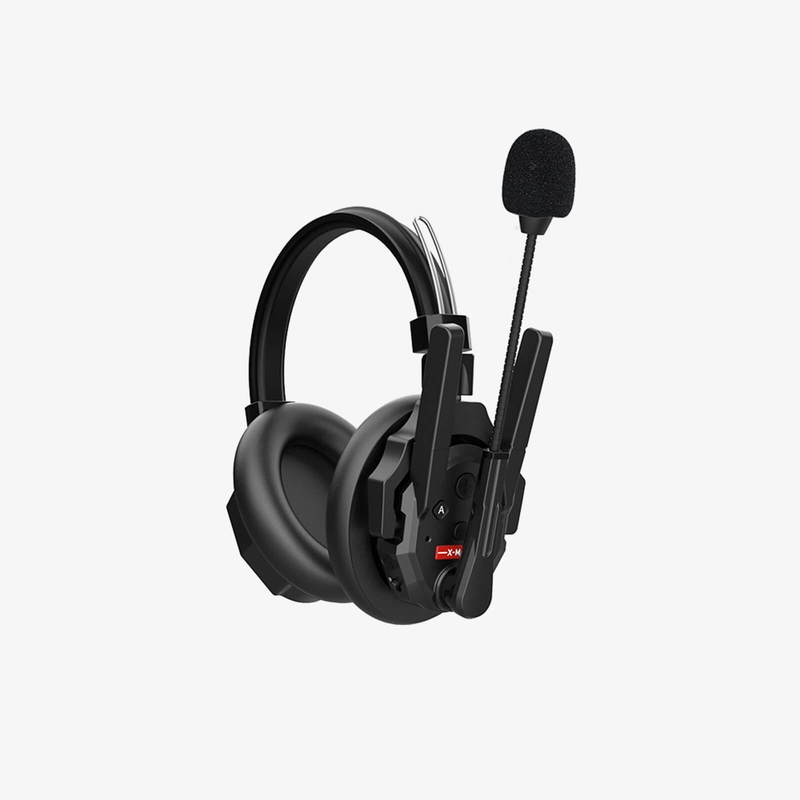
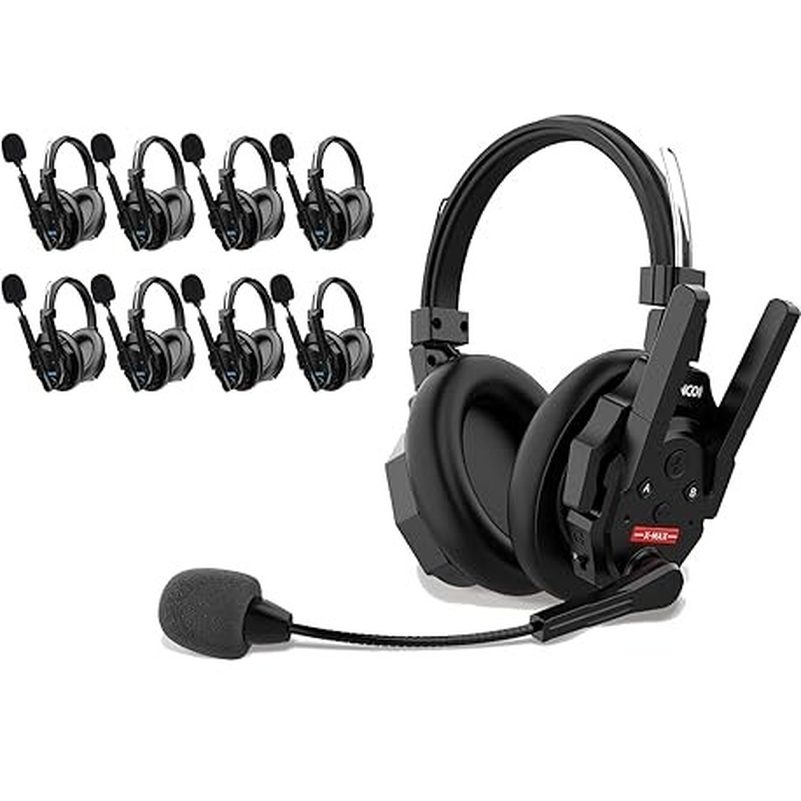
Synco XMax 9구 이미지 교체(9개 세트 layout) + NEW 태그 우선 정렬 추가

diff --git a/client/src/components/ProductSection.tsx b/client/src/components/ProductSection.tsx
@@ -7,7 +7,12 @@ import ProductCard from "./ProductCard";
 export default function ProductSection() {
   const [active, setActive] = useState("전체");
   const tabs = ["전체", ...categories];
-  const filtered = products.filter((p: Product) => active === "전체" || p.category === active);
+  // NEW 태그가 가장 먼저, 그다음 입고예정, 나머지는 기존 순서 유지 (stable sort)
+  const tagPriority: Record<string, number> = { NEW: 0, "입고예정": 1 };
+  const filtered = products
+    .filter((p: Product) => active === "전체" || p.category === active)
+    .slice()
+    .sort((a, b) => (tagPriority[a.tag ?? ""] ?? 99) - (tagPriority[b.tag ?? ""] ?? 99));
 
   return (
     <section id="products" className="py-24 bg-bg-primary">